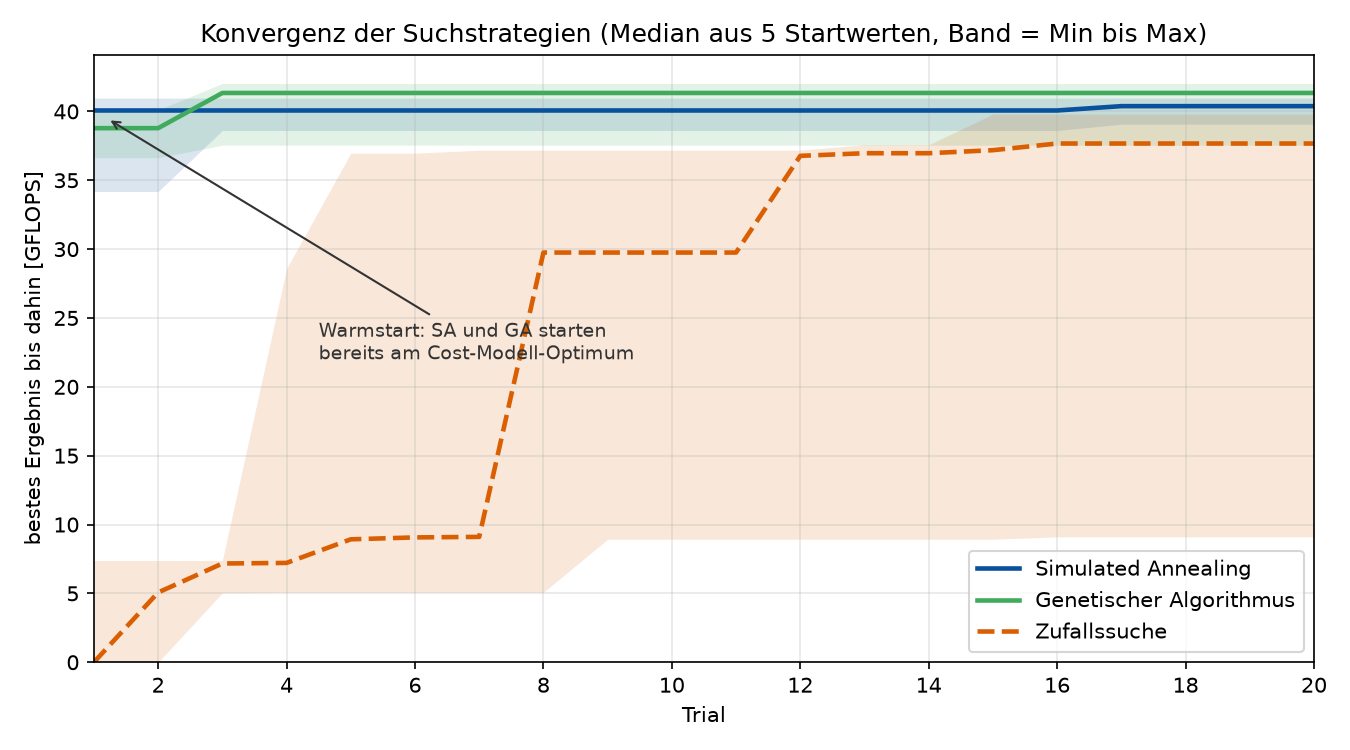
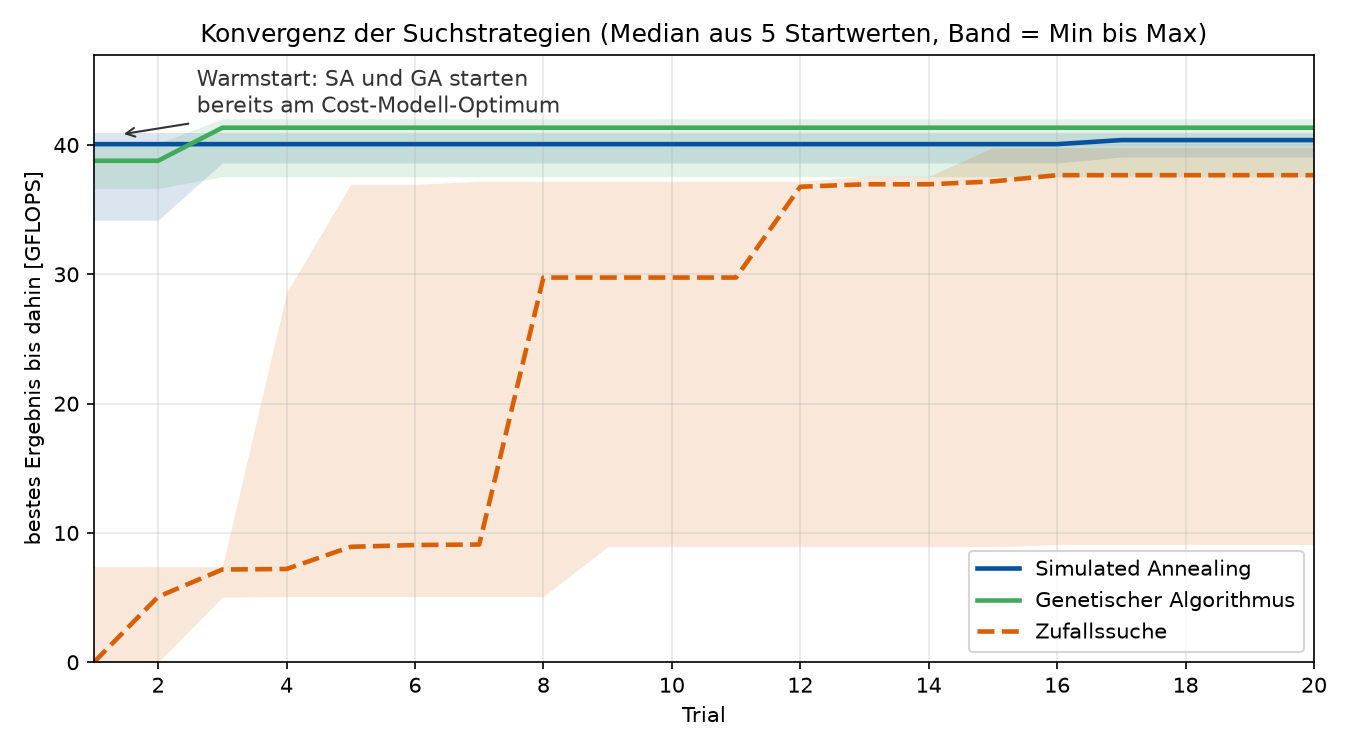
Bericht: Konvergenz-Abbildung lesbarer (Annotation größer, kreuzt keine Linie mehr)

diff --git a/docs/projekt/plot_konvergenz.py b/docs/projekt/plot_konvergenz.py
@@ -45,11 +45,13 @@ ax.grid(alpha=0.3)
 ax.legend(loc="lower right")
 ax.set_xlim(1, min(len(r) for s in runs.values() for r in s))
 ax.set_xticks(range(2, 21, 2))   # Trials sind ganzzahlig
-ax.set_ylim(bottom=0)
+ax.set_ylim(0, 47)               # Luft nach oben fuer die Warmstart-Notiz
 
-# Der Warmstart ist die Kernaussage: SA und GA liegen ab Trial 1 oben.
+# Der Warmstart ist die Kernaussage: SA und GA liegen ab Trial 1 oben. Text
+# und Pfeil liegen oberhalb der Kurven, damit sie keine Linie kreuzen.
 ax.annotate("Warmstart: SA und GA starten\nbereits am Cost-Modell-Optimum",
-            xy=(1.2, 39.5), xytext=(4.5, 22), fontsize=9, color="#333333",
+            xy=(1.4, 40.8), xytext=(2.6, 44), fontsize=10.5, color="#333333",
+            va="center",
             arrowprops={"arrowstyle": "->", "color": "#333333", "lw": 1})
 
 fig.tight_layout()
